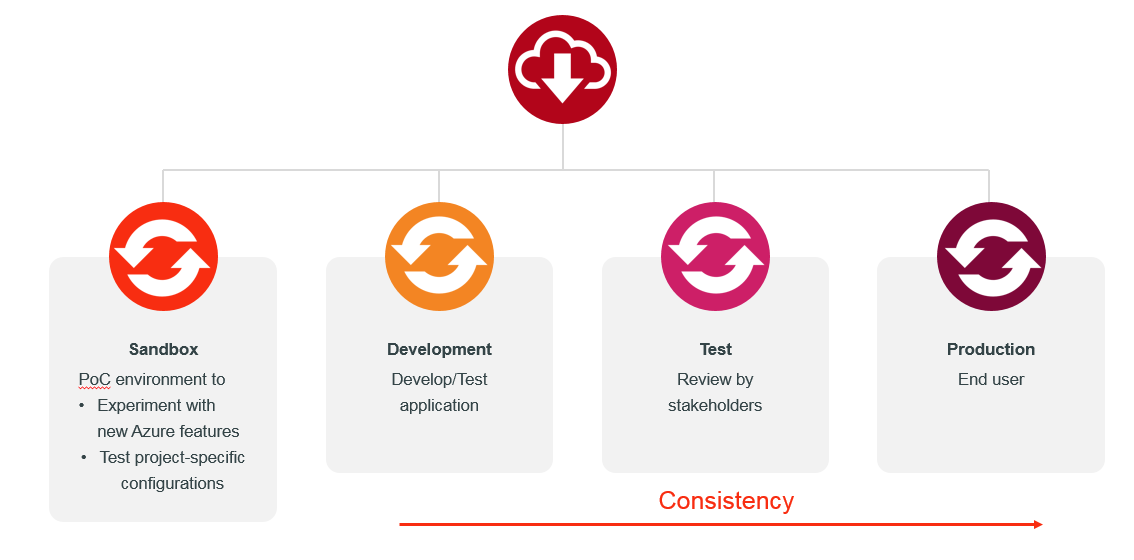
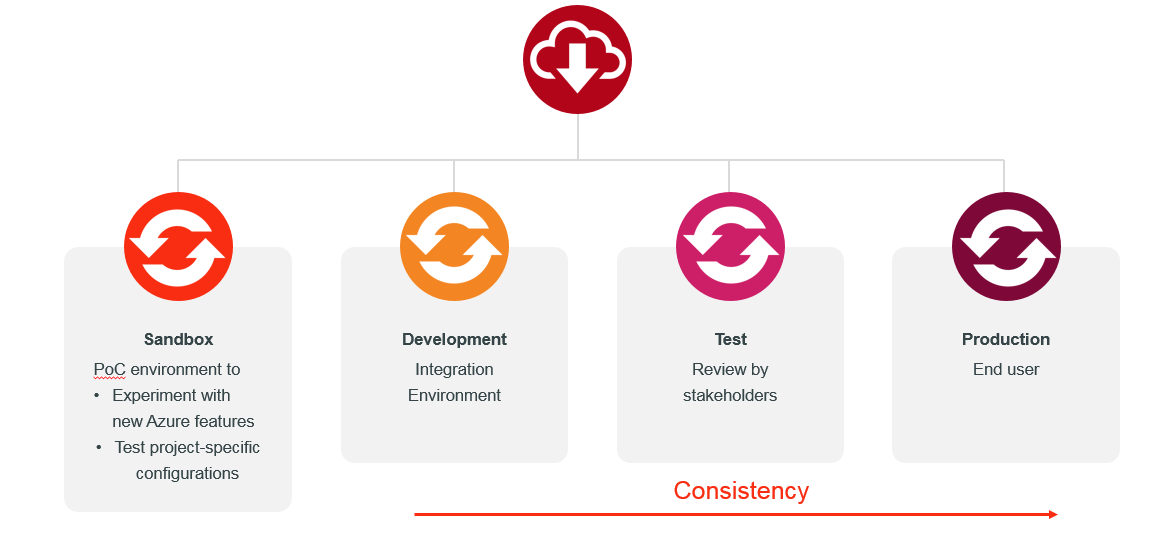
update

diff --git a/docs/devops/overview.md b/docs/devops/overview.md
@@ -60,7 +60,7 @@ Continuous delivery is a series of practices designed to ensure that code can be
 
 A Sandbox environment is not part of any official DevOps pipeline and is used only for Proof of Concepts (PoC) and experimental purposes.
 
-A Dev environment is used as the first stage in the DevOps delivery pipeline and serves as a testing environment for Dev teams.
+A Dev environment is used as the first stage in the DevOps delivery pipeline and serves as a testing environment for Dev teams to test continuously integrated code.
 
 A Test environment is used to review implementations with stakeholders and business partners.
 
